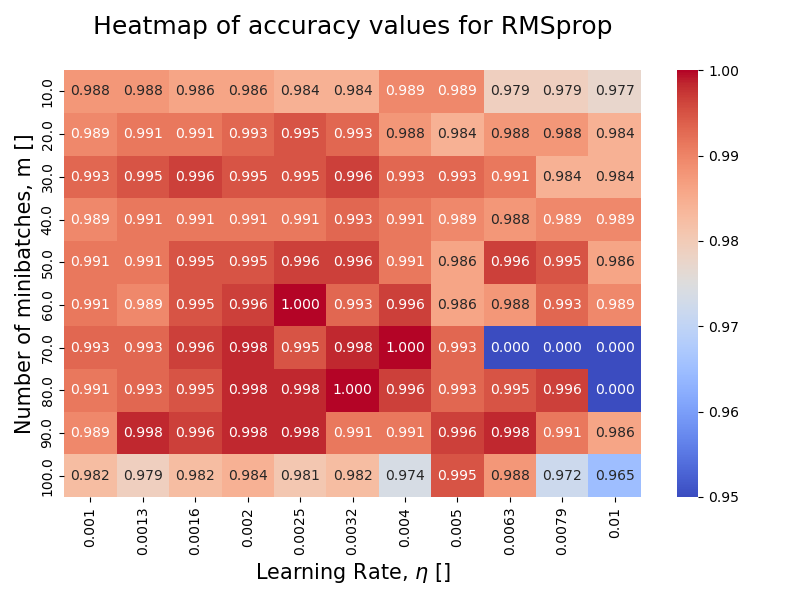
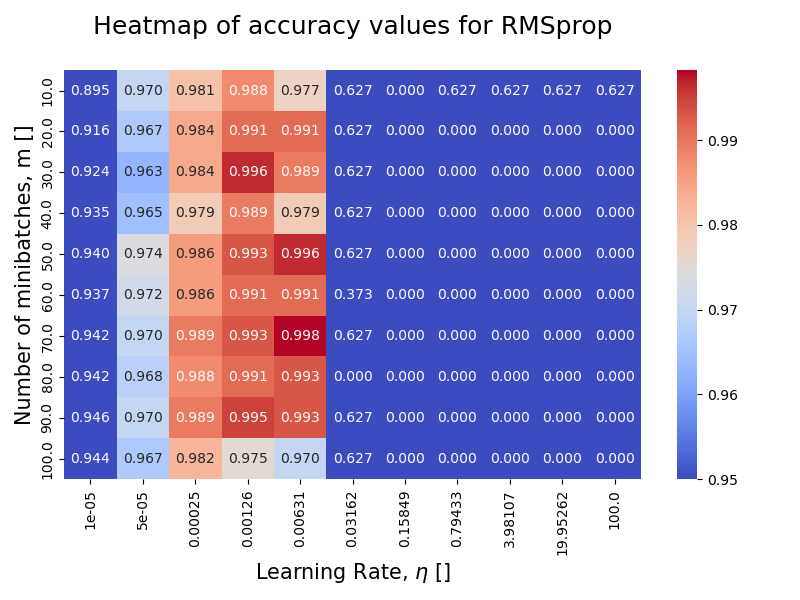
did some more things, AdaGrad and ADAM plots are absolutely terrible, should look into it

diff --git a/task_d_OP.py b/task_d_OP.py
@@ -27,12 +27,15 @@ import warnings
 warnings.simplefilter("error")
 random.seed(2023)
 #---------------- Cost, activation functions (Lecture notes) -------------#
+
+"""
 def CostOLS(target):
     
     def func(X):
         return (1.0 / target.shape[0]) * np.sum((target - X) ** 2)
 
     return func
+"""
 
 
 def CostLogReg(target):
@@ -108,14 +111,6 @@ def derivate(func):
 
 
 #----------------------------- Testing functions for producing data ----------------------#
-
-def FrankeFunction(x,y):
-        term1 = 0.75*np.exp(-(0.25*(9*x-2)**2) - 0.25*((9*y-2)**2))
-        term2 = 0.75*np.exp(-((9*x+1)**2)/49.0 - 0.1*(9*y+1))
-        term3 = 0.5*np.exp(-(9*x-7)**2/4.0 - 0.25*((9*y-3)**2))
-        term4 = -0.2*np.exp(-(9*x-4)**2 - (9*y-7)**2)
-        return term1 + term2 + term3 + term4
-
 
 def Design_Matrix_2D(deg, X):
     # The number of polynomial terms for two variables (x, y) up to degree d is (d+1)(d+2)/2  
@@ -1081,14 +1076,14 @@ if __name__ == "__main__":
     lmbd_vals[0] = 0
     accuracy_listGD = np.zeros( (len(eta_vals), len(lmbd_vals)) )
     accuracy_listMomGD = np.zeros( (len(eta_vals), len(lmbd_vals)) )
-    for i, eta in enumerate(eta_vals):
+    for i, eta in tqdm(enumerate(eta_vals)):
+        print(f"eta number {i+1} of {len(eta_vals)}")
         for j, lmbd in enumerate(lmbd_vals):
             try:
                 accuracyGD = MLPGD.fit(X, y, n_batches = 10, n_epochs = 100, eta = eta, lmb = lmbd, delta_mom = 0, method = 'GD', scale_bool = True, tol = 1e-17)
                 accuracyMomGD = MLPMomGD.fit(X, y, n_batches = 10, n_epochs = 100, eta = eta, lmb = lmbd, delta_mom = 0.9, method = 'GD', scale_bool = True, tol = 1e-17)
                 accuracy_listGD[i][j] = accuracyGD[0]
                 accuracy_listMomGD[i][j] = accuracyMomGD[0]
-                print(f"Eta: {eta}, lambda: {lmbd}, Accuracy (GD): {accuracyGD[0]:.4f}, Accuracy (MomGD): {accuracyMomGD[0]:.4f}")
                 MLPGD.reset_weights()
                 MLPMomGD.reset_weights()
             except RuntimeWarning:
@@ -1098,8 +1093,8 @@ if __name__ == "__main__":
         
     
     
-    iGD, jGD = plot_heatmap(accuracy_listGD.T, lmbd_vals, eta_vals, 'GD', saveplot=False, vmin=0.85)
-    iMomGD, jMomGD = plot_heatmap(accuracy_listMomGD.T, lmbd_vals, eta_vals, 'Momentum-GD', saveplot=False, vmin = 0.85)
+    iGD, jGD = plot_heatmap(accuracy_listGD.T, lmbd_vals, eta_vals, 'GD', saveplot=True, vmin=0.85)
+    iMomGD, jMomGD = plot_heatmap(accuracy_listMomGD.T, lmbd_vals, eta_vals, 'Momentum-GD', saveplot=True, vmin = 0.85)
     
     
     #By inspecting these plots we determine the optimal lambda, which will be used in
@@ -1107,39 +1102,97 @@ if __name__ == "__main__":
     #Momentum GD tells us that a very small lambda is optimal.
     #Will choose 0 since it coincides with findings from other subtasks.
     
-    #After testing RMSprop the actual optimal lambda is 0
+    #After testing RMSprop the actual optimal lambda is 0, as found in Mom GD plot
+    
+    
+    
+    hidden_nodes_vals = np.linspace(50, 150, 11)
+    activation_funcs = [sigmoid, softmax, RELU, LRELU]
+    act_funcs_labels = ['sigmoid', 'softmax', 'RELU', 'LRELU']
+    accuracy_list_config_test = np.zeros( (len(hidden_nodes_vals), len(activation_funcs)) )
+    for i, hidden in tqdm(enumerate(hidden_nodes_vals)):
+        print(f"Number of nodes in hidden layer value {i+1} of {len(hidden_nodes_vals)}")
+        for j, func in enumerate(activation_funcs):
+            try:
+                MLP_config_test = Network([30, int(hidden), 1], func, sigmoid, CostLogReg)
+                MLP_config_test.reset_weights()
+                MLP_config_test.set_classification()
+                #picked some values that we knew were good from analysis that happens later in the code
+                accuracy_config_test = MLP_config_test.fit(X, y, n_batches=80, n_epochs=100, eta=0.0032, lmb=0, delta_mom=0, method='RMSprop', scale_bool = True, tol = 1e-17)
+                accuracy_list_config_test[i][j] = accuracy_config_test[0]
+            except RuntimeWarning:
+                continue
+    
+    
+    plt.figure(figsize=(8, 6))
+    sns.heatmap(accuracy_list_config_test.T, annot=True, cmap="coolwarm", xticklabels=hidden_nodes_vals, yticklabels=act_funcs_labels, fmt='.3f')
+    plt.xlabel(r" # of nodes in hidden layer []", fontsize = lablesize)
+    plt.ylabel(r" Activation functions", fontsize = lablesize)
+    plt.title(f"Heatmap of accuracy values for RMSprop (network configurations)\n ", fontsize=fontsize)
+    plt.tight_layout()
+    plt.savefig("Additional_Plots/RMSprop_network_config_heatmap.png")
+    plt.show()
+    
+    
+    #According to this plot, we pick 100 nodes in hidden layer with LRELU activation
     
     
     
     #use RMSprop for training
-    MLP = Network([30,100,1], LRELU, sigmoid, CostLogReg)
-    MLP.reset_weights()
-    MLP.set_classification()
+    MLP_RMSprop = Network([30,100,1], LRELU, sigmoid, CostLogReg)
+    MLP_RMSprop.reset_weights()
+    MLP_RMSprop.set_classification()
+    
+    MLP_AdaGrad = Network([30,100,1], LRELU, sigmoid, CostLogReg)
+    MLP_AdaGrad.reset_weights()
+    MLP_AdaGrad.set_classification()
+    
+    MLP_ADAM = Network([30,100,1], LRELU, sigmoid, CostLogReg)
+    MLP_ADAM.reset_weights()
+    MLP_ADAM.set_classification()
     
     m_list = np.linspace(10, 100, 10)
-    eta_vals = np.logspace(-3, -2, 11)
-    eta_vals = np.round(eta_vals, 4)
+    #eta_vals = np.logspace(-3, -2, 11)
+    eta_vals = np.logspace(-5, 2, 11)
+    #eta_vals = np.logspace(eta_vals, 3)
+    eta_vals = np.round(eta_vals, 5)
     
-    accuracy_list = np.zeros( (len(eta_vals), len(m_list)) )
-    for i, eta in enumerate(eta_vals):
+    accuracy_list_RMSprop = np.zeros( (len(eta_vals), len(m_list)) )
+    accuracy_list_AdaGrad = np.zeros( (len(eta_vals), len(m_list)) )
+    accuracy_list_ADAM = np.zeros( (len(eta_vals), len(m_list)) )
+    for i, eta in tqdm(enumerate(eta_vals)):
+        print(f"eta number {i+1} of {len(eta_vals)}")
         for j, m in enumerate(m_list):
             try:
-                accuracy = MLP.fit(X, y, n_batches = m, n_epochs = 100, eta = eta, lmb = 0, delta_mom = 0, method = 'RMSprop', scale_bool = True, tol = 1e-17)
-                accuracy_list[i][j] = accuracy[0]
-                print(f"Eta: {eta}, m: {m}, Accuracy: {accuracy[0]:.5f}")
-                MLP.reset_weights()
+                accuracy_RMSprop = MLP_RMSprop.fit(X, y, n_batches = m, n_epochs = 100, eta = eta, lmb = 0, delta_mom = 0, method = 'RMSprop', scale_bool = True, tol = 1e-17)
+                accuracy_AdaGrad = MLP_AdaGrad.fit(X, y, n_batches = m, n_epochs = 100, eta = eta, lmb = 0, delta_mom = 0, method = 'AdaGrad', scale_bool = True, tol = 1e-17)
+                accuracy_ADAM = MLP_ADAM.fit(X, y, n_batches = m, n_epochs = 100, eta = eta, lmb = 0, delta_mom = 0, method = 'ADAM', scale_bool = True, tol = 1e-17)
+                accuracy_list_RMSprop[i][j] = accuracy_RMSprop[0]
+                accuracy_list_AdaGrad[i][j] = accuracy_AdaGrad[0]
+                accuracy_list_ADAM[i][j] = accuracy_ADAM[0]
+                MLP_RMSprop.reset_weights()
+                MLP_AdaGrad.reset_weights()
+                MLP_ADAM.reset_weights()
             except RuntimeWarning:
-                MLP.reset_weights()
+                MLP_RMSprop.reset_weights()
+                MLP_AdaGrad.reset_weights()
+                MLP_ADAM.reset_weights()
                 continue;  
     print('\n')
     
-    i_max, j_max = plot_heatmap(accuracy_list.T, m_list, eta_vals, title='RMSprop', vmin=0.95, saveplot=False)
+    iRMSprop_max, jRMSprop_max = plot_heatmap(accuracy_list_RMSprop.T, m_list, eta_vals, title='RMSprop', vmin=0.95, saveplot=True)
+    iAdaGrad_max, jAdaGrad_max = plot_heatmap(accuracy_list_AdaGrad.T, m_list, eta_vals, title='AdaGrad', vmin=0.95, saveplot=True)
+    iADAM_max, jADAM_max = plot_heatmap(accuracy_list_ADAM.T, m_list, eta_vals, title='ADAM', vmin=0.95, saveplot=True)
     
     #By eye: best values: m=30, eta=0.0032 (24.10.2024)
-    #By eye: best values: m=80, eta=0.0032 (25.10.2024)
+    #By eye: best values: m=80, eta=0.0032 (25.10.2024, after changes to stochastic part)
     #There are however MULTIPLE possible combinations with 100% accuracy
     
     
+    
+    MLP = Network([30,100,1], LRELU, sigmoid, CostLogReg)
+    MLP.reset_weights()
+    MLP.set_classification()
     
     final_accuracy = MLP.fit(X, y, n_batches=80, n_epochs=100, eta=0.0032, lmb=0, delta_mom=0, method = 'RMSprop', scale_bool = True, tol = 1e-17)
     
